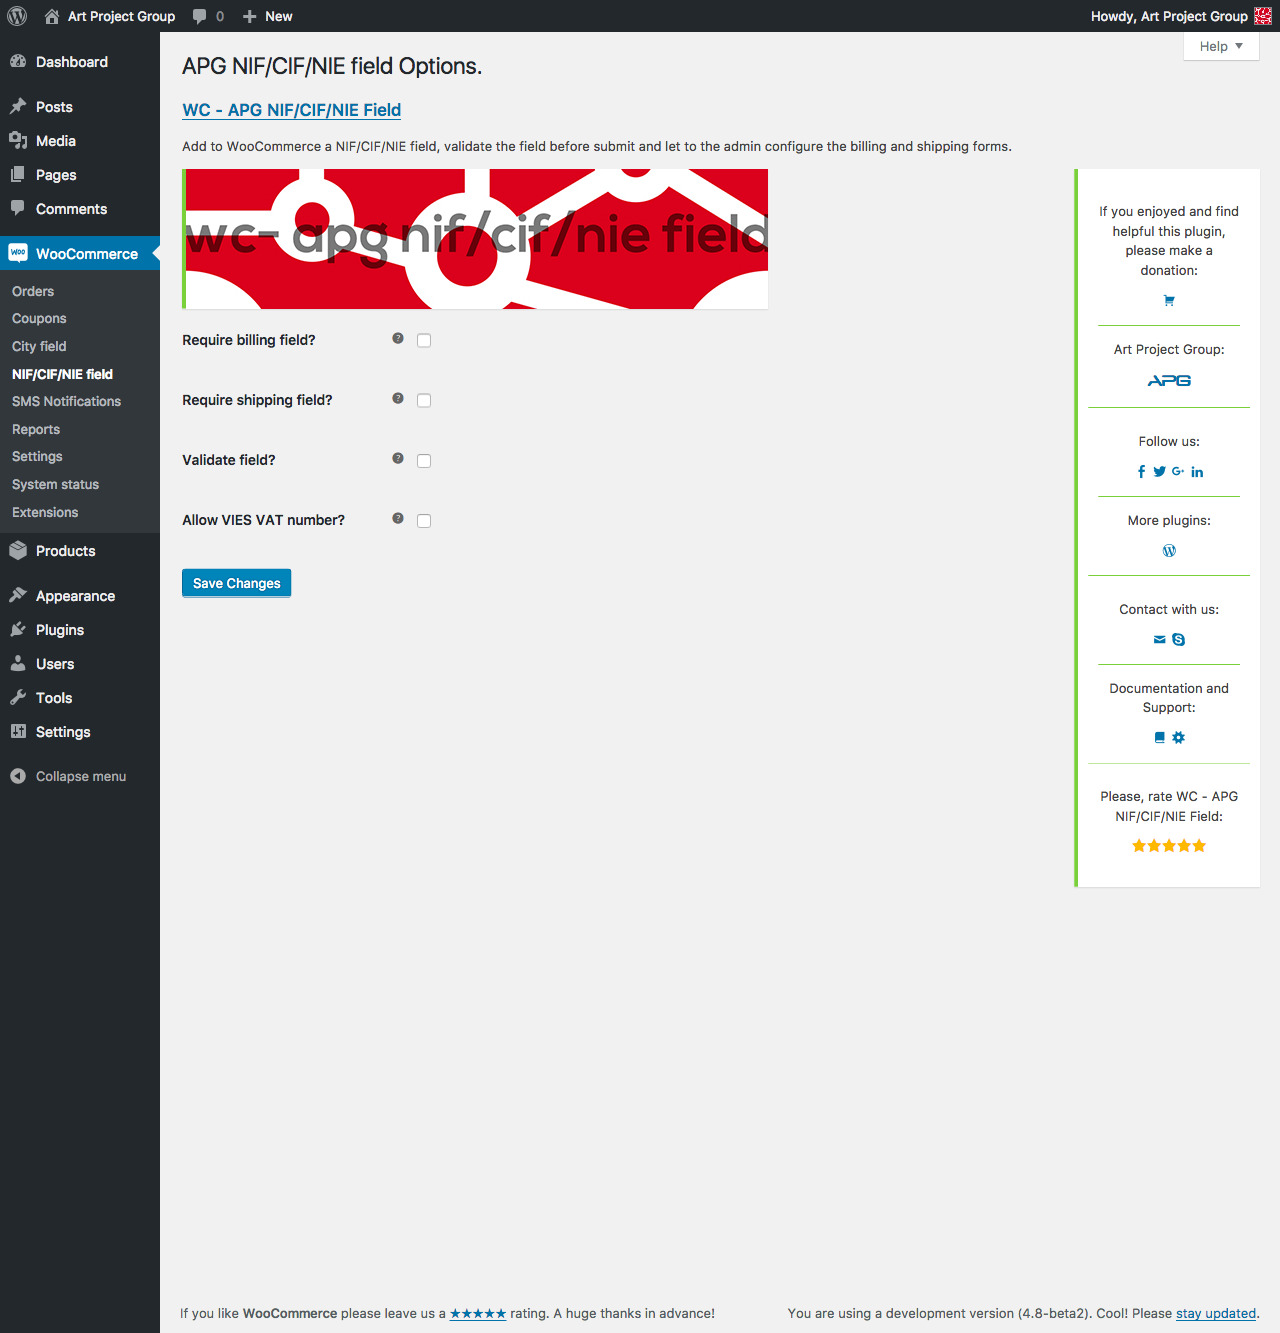
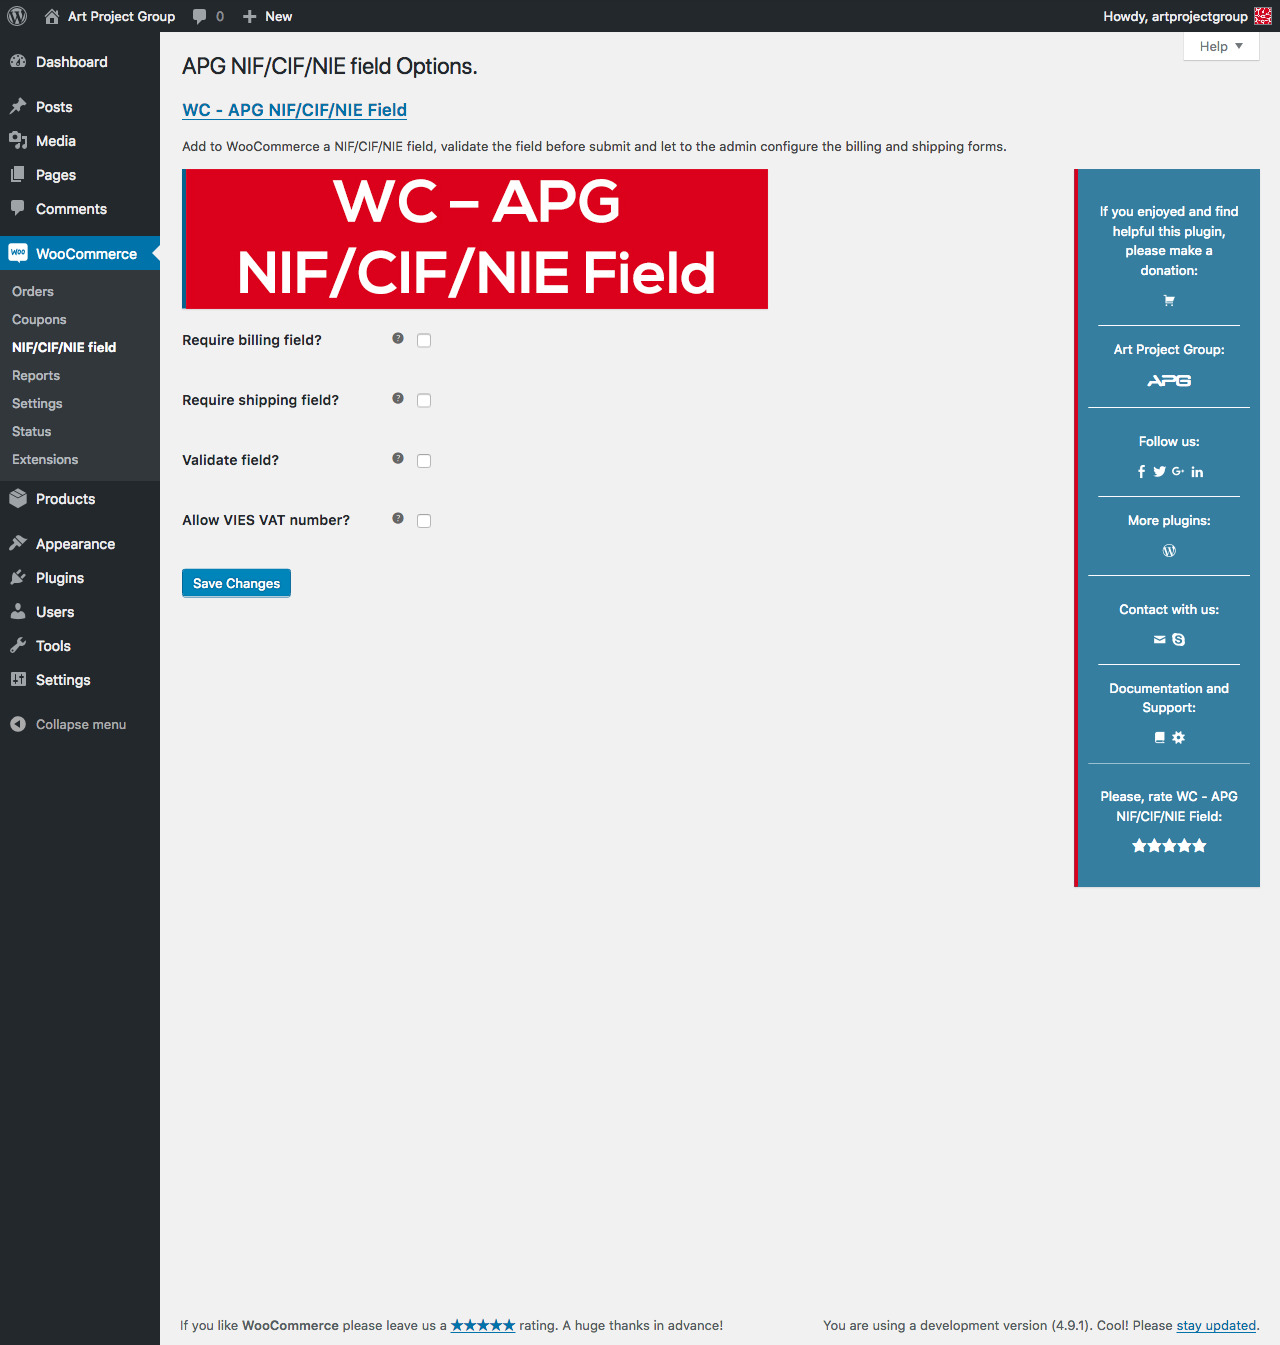
Versión 1.2.0.2

diff --git a/assets/css/style.css b/assets/css/style.css
@@ -7,12 +7,12 @@ table.apg-table, .cabecera {
 	max-width: 586px;
 }
 .imagen {
-	border-left: 4px solid #7AD03A;
+	border-left: 4px solid #07628c;
 	box-shadow: 0 1px 1px 0 rgba(0, 0, 0, 0.1);
 	max-width: 100%;
 	display: block;
 }
-.imagen:hover {
+.imagen:hover, .estrellas .star-rating .star:hover, div.informacion a:hover {
 	-ms-filter: "progid:DXImageTransform.Microsoft.Alpha(Opacity=80)";
 	filter: alpha(opacity=80);
 	-moz-opacity: 0.8;
@@ -22,26 +22,27 @@ table.apg-table, .cabecera {
 .estrellas div {
 	display: inline!important;
 }
-.estrellas div:hover {
-	color: #2ea2cc;
-}
 .estrellas .star-rating .star {
 	font-size: 18px;
 }
-div.informacion .genericon, div.informacion .estrellas .star-rating .star, div.informacion .artprojectgroup {
+div.informacion .estrellas .star-rating .star {
+	color: #fff;
+}
+.genericon, div.informacion .estrellas .star-rating .star, div.informacion .artprojectgroup {
 	width: 15px;
 	height: 15px;
 	font-size: 15px;
 }
 div.informacion {
-	background-color: #FFFFFF;
+	background-color: rgba(7,98,140,0.8);
 	float: right;
 	padding: 10px;
 	width: 15%;
 	max-width: 220px;
 	text-align: center;
-	border-left: 4px solid #7AD03A;
+	border-left: 4px solid #d9001d;
 	box-shadow: 0 1px 1px 0 rgba(0, 0, 0, 0.1);
+	color: #fff;
 }
 div.informacion div.fila {
 	padding: 10px 10px 0px;
@@ -49,7 +50,7 @@ div.informacion div.fila {
 	max-width: 190px;
 }
 div.informacion div.fila, div.informacion div.columna:nth-child(2n) {
-	border-top: 1px solid #7AD03A;
+	border-top: 1px solid #fff;
 }
 div.informacion div.fila:first-child {
 	border: none;
@@ -64,6 +65,7 @@ div.informacion div.fila.final {
 }
 div.informacion a {
 	text-decoration: none;
+	color: #fff;
 }
 table.apg-table select, table.apg-table textarea {
 	width: 100% !important;

diff --git a/apg-nif.php b/apg-nif.php
@@ -1,7 +1,7 @@
 <?php
 /*
 Plugin Name: WC - APG NIF/CIF/NIE Field
-Version: 1.2.0.1
+Version: 1.2.0.2
 Plugin URI: https://wordpress.org/plugins/wc-apg-nifcifnie-field/
 Description: Add to WooCommerce a NIF/CIF/NIE field.
 Author URI: https://artprojectgroup.es/
@@ -9,7 +9,7 @@ Author: Art Project Group
 Requires at least: 3.8
 Tested up to: 4.9.1
 WC requires at least: 2.4
-WC tested up to: 3.2.5
+WC tested up to: 3.3
 
 Text Domain: wc-apg-nifcifnie-field
 Domain Path: /languages
@@ -32,7 +32,7 @@ $apg_nif = array(
 	'plugin' 		=> 'WC - APG NIF/CIF/NIE Field', 
 	'plugin_uri' 	=> 'wc-apg-nifcifnie-field', 
 	'donacion' 		=> 'https://artprojectgroup.es/tienda/donacion',
-	'soporte' 		=> 'https://wcprojectgroup.es/tienda/ticket-de-soporte',
+	'soporte' 		=> 'https://artprojectgroup.es/tienda/ticket-de-soporte',
 	'plugin_url' 	=> 'https://artprojectgroup.es/plugins-para-wordpress/plugins-para-woocommerce/wc-apg-nifcifnie-field', 
 	'ajustes' 		=> 'admin.php?page=wc-apg-nifcifnie-field', 
 	'puntuacion' 	=> 'https://www.wordpress.org/support/view/plugin-reviews/wc-apg-nifcifnie-field'

diff --git a/readme.md b/readme.md
@@ -9,11 +9,11 @@ Requires at least: 3.8
 
 Tested up to: 4.9.1
 
-Stable tag: 1.2.0.1
+Stable tag: 1.2.0.2
 
 WC requires at least: 2.4
 
-WC tested up to: 3.2.5
+WC tested up to: 3.3
 
 License: GPLv3
 
@@ -38,7 +38,7 @@ Añade a WooCommerce un campo NIF/CIF/NIE.
 * English ([**Art Project Group**](https://artprojectgroup.es/)).
 
 ### Soporte técnico
-**Art Project Group** te ofrece [**Soporte técnico**](https://wcprojectgroup.es/tienda/ticket-de-soporte) para configurar o instalar ***WC - APG NIF/CIF/NIE Field***.
+**Art Project Group** te ofrece [**Soporte técnico**](https://artprojectgroup.es/tienda/ticket-de-soporte) para configurar o instalar ***WC - APG NIF/CIF/NIE Field***.
 
 ### Origen
 **WC - APG NIF/CIF/NIE Field** ha sido programado a partir del código publicado en [*¿Cómo añadir un campo NIF o CIF con validación a WooCommerce 2.4?*](https://artprojectgroup.es/como-anadir-un-campo-nif-o-cif-con-validacion-a-woocommerce-2-4) de [Art Project Group](https://artprojectgroup.es/).
@@ -74,11 +74,16 @@ Puedes seguir el desarrollo de este plugin en [Github](https://github.com/artpro
 La configuración del plugin es un muy simple, tan sólo debes indicar si quieres que se valide el campo NIF/CIF/NIE o no.
 
 ### Soporte técnico
-Si necesitas ayuda para configurar o instalar **WC - APG NIF/CIF/NIE Field**, **Art Project Group** te ofrece su servicio de [**Soporte técnico**](https://wcprojectgroup.es/tienda/ticket-de-soporte). 
+Si necesitas ayuda para configurar o instalar **WC - APG NIF/CIF/NIE Field**, **Art Project Group** te ofrece su servicio de [**Soporte técnico**](https://artprojectgroup.es/tienda/ticket-de-soporte). 
 
 *En ningún caso **Art Project Group** proporciona ningún tipo de soporte técnico gratuito.*
 
 ## Changelog
+### 1.2.0.2
+* Actualización de cabecera.
+* Actualización de hoja de estilo.
+* Actualización de captura de pantalla.
+
 ### 1.2.0.1
 * Arreglo de la validación del número CIF.
 
@@ -143,7 +148,7 @@ Si necesitas ayuda para configurar o instalar **WC - APG NIF/CIF/NIE Field**, **
 * *Español*: por [**Art Project Group**](https://artprojectgroup.es/).
 
 ## Soporte técnico
-Dado que **WC - APG NIF/CIF/NIE Field** es totalmente gratuito, **Art Project Group** sólo proporciona el servicio de [**Soporte técnico**](https://wcprojectgroup.es/tienda/ticket-de-soporte) previo pago. En ningún caso **Art Project Group** proporciona ningún tipo de soporte técnico gratuito.
+Dado que **WC - APG NIF/CIF/NIE Field** es totalmente gratuito, **Art Project Group** sólo proporciona el servicio de [**Soporte técnico**](https://artprojectgroup.es/tienda/ticket-de-soporte) previo pago. En ningún caso **Art Project Group** proporciona ningún tipo de soporte técnico gratuito.
 
 ## Donación
 ¿Te ha gustado y te ha resultado útil **WC - APG NIF/CIF/NIE Field** en tu sitio web? Te agradeceríamos una [pequeña donación](https://artprojectgroup.es/tienda/donacion) que nos ayudará a seguir mejorando este plugin y a crear más plugins totalmente gratuitos para toda la comunidad WordPress.
